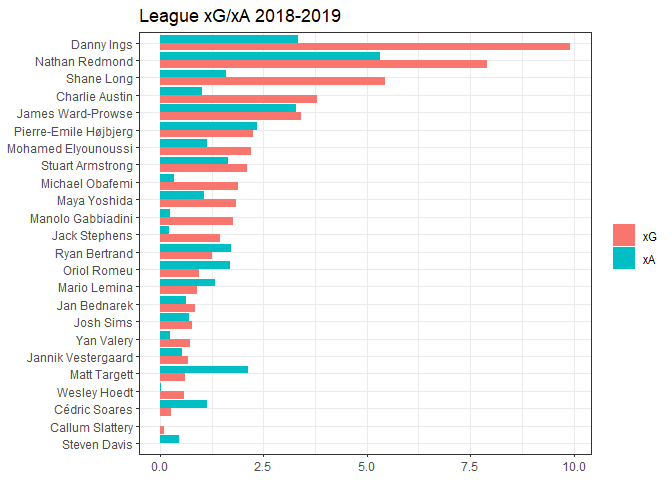
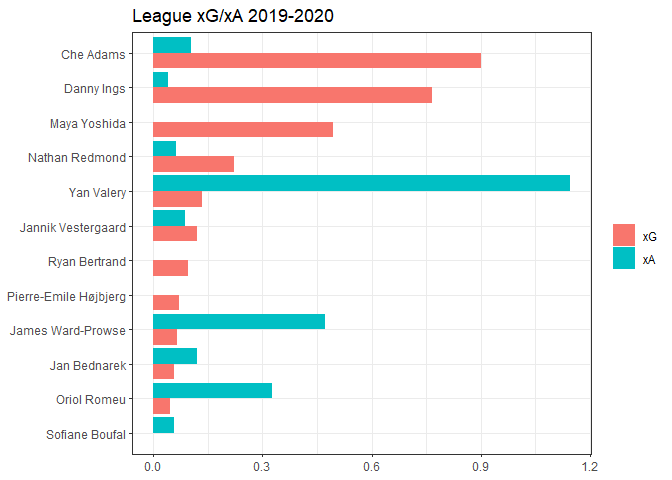
knit

diff --git a/understat-southampton.md b/understat-southampton.md
@@ -1,7 +1,7 @@
 Southampton FC Understat Scraper
 ================
 saintsnumbers
-2019-088-14
+2019-08-14
 
 ## Scraping Southampton FC Understat data
 
@@ -29,7 +29,9 @@ get_player_seasons_stats(843) %>%
 ### [ggplot2 specs](https://ggplot2.tidyverse.org/articles/ggplot2-specs.html)
 
 ``` r
-source <- c("Southampton",2018)
+team <- "Southampton"
+year <- 2019
+source <- c(team,year)
 get_team_players_stats(source[[1]],source[[2]]) %>%
   filter(time>0) %>%
   mutate(player_name=factor(player_name,levels=player_name[order(time)])) %>%
@@ -49,7 +51,7 @@ ggsave(paste0("./plots/","TeamStats_",source[[1]],"_",source[[2]],".jpg"))
     ## Saving 7 x 5 in image
 
 ``` r
-source <- c("Southampton",2018)
+source <- c(team,year)
 get_team_players_stats(source[[1]],source[[2]]) %>%
   filter(xG > 0) %>%
   mutate(player_name=factor(player_name,levels=player_name[order(xG)])) %>%
@@ -69,14 +71,14 @@ ggsave(paste0("./plots/","PlayerStats_",source[[1]],"_",source[[2]],".jpg"))
     ## Saving 7 x 5 in image
 
 ``` r
-source <- c("Southampton",2018)
+source <- c(team,year)
 get_team_players_stats(source[[1]],source[[2]]) %>%
   filter((xG > 0)|(xA > 0)) %>%
   ggplot(aes(x=xG,y=xA)) +
-  geom_point(aes(shape="circle"),colour="#e61919",alpha=0.6) +
-  geom_text(aes(label=ifelse(xG+xA>=2,player_name,""),hjust="right",vjust="outward"),size=1.5) +
+  geom_point(colour="#e61919",alpha=0.6) +
+  geom_text(aes(label=ifelse(xG+xA>=.2,player_name,""),hjust="inward",vjust="outward"),size=1.5) +
   labs(title=paste0("League xG/xA ",as.integer(source[[2]]),"-",as.integer(source[[2]])+1),x="xG",y="xA") +
-  scale_shape_identity()
+  coord_fixed()
 ```
 
 ![](understat-southampton_files/figure-gfm/plots-3.png)<!-- -->
@@ -88,14 +90,13 @@ ggsave(paste0("./plots/","xGxA_",source[[1]],"_",source[[2]],"_Point.jpg"))
     ## Saving 7 x 5 in image
 
 ``` r
-source <- c("Southampton",2018)
+source <- c(team,year)
 get_team_players_stats(source[[1]],source[[2]]) %>%
   filter((xG > 0)|(xA > 0)) %>%
   mutate(player_name=factor(player_name,levels=player_name[order(xG)])) %>%
   gather("xG","xA",key="x",value="xN") %>%
   select("player_name","x","xN") %>%
   mutate(x=factor(x,levels=c("xG","xA"))) %>%
-  # View("xGxA")
   ggplot(aes(x=player_name,y=xN,fill=x)) +
   geom_bar(stat="identity",position="dodge") +
   labs(title=paste0("League xG/xA ",as.integer(source[[2]]),"-",as.integer(source[[2]])+1)) +
